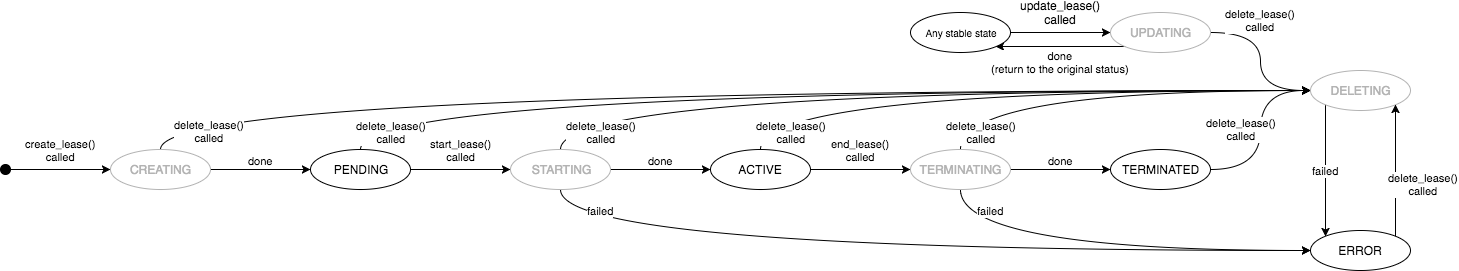
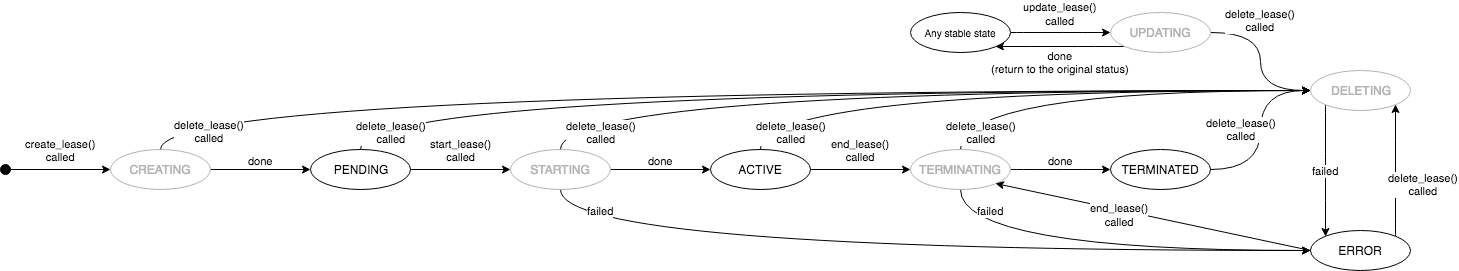
Allow terminating a lease in ERROR state
This patch adds a valid state transition from ERROR to TERMINATING,
which should allow a lease in the ERROR state to at least attempt to
clean itself up upon lease end. If this state transition is not allowed,
leases in the ERROR state effectively will not be cleaned up and their
hosts will stay in the corresponding aggregate instead of being returned
to the freepool.

This is compounded by the fact that leases can easily go into ERROR
state because of bug https://bugs.launchpad.net/blazar/+bug/1786031.

Closes-Bug: #1793560

diff --git a/blazar/status.py b/blazar/status.py
@@ -113,7 +113,7 @@ class LeaseStatus(BaseStatus):
         PENDING: (STARTING, UPDATING, DELETING),
         ACTIVE: (TERMINATING, UPDATING, DELETING),
         TERMINATED: (UPDATING, DELETING),
-        ERROR: (UPDATING, DELETING),
+        ERROR: (TERMINATING, UPDATING, DELETING),
         CREATING: (PENDING, DELETING),
         STARTING: (ACTIVE, ERROR, DELETING),
         UPDATING: STABLE + (DELETING,),
